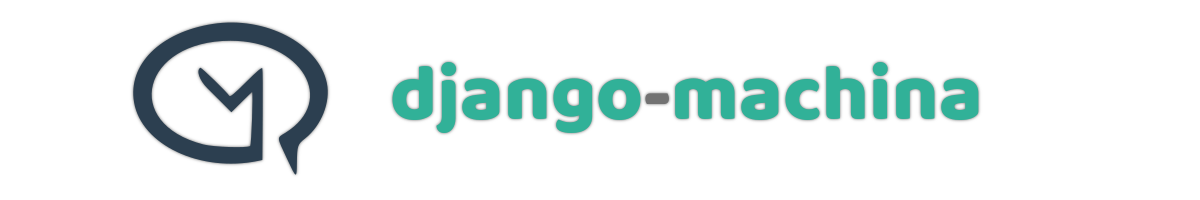
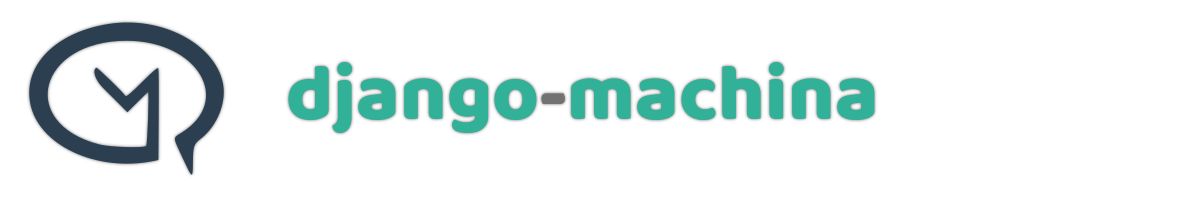
Updated README

Changed region(s): [[0.0, 0.09, 0.8325, 0.87]]

diff --git a/README.rst b/README.rst
@@ -1,5 +1,4 @@
-django-machina
-##############
+.. image:: https://github.com/ellmetha/django-machina/raw/master/docs/_images/banner.png
 
 .. image:: https://readthedocs.org/projects/django-machina/badge/?style=flat-square&version=stable
     :target: https://django-machina.readthedocs.org/en/stable/
@@ -22,11 +21,7 @@ django-machina
     :alt: Codecov status
 
 Django-machina is a forum framework for Django providing a way to build community-driven websites.
-
-.. image:: https://github.com/ellmetha/django-machina/raw/master/docs/_images/banner.png
-    :target: https://django-machina.readthedocs.org/en/stable/
-
-Django-machina offers a full-featured yet very extensible forum solution:
+It offers a full-featured yet very extensible forum solution:
 
 * Topic and post editing
 * Forums tree management
